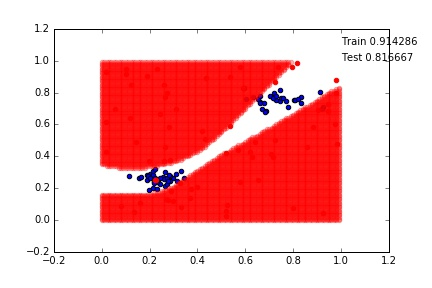
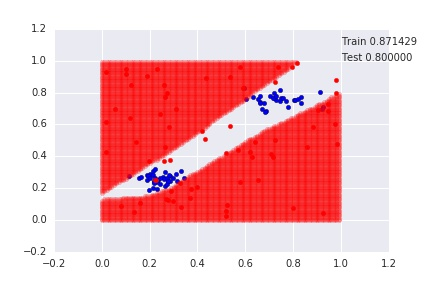
callbacks for Fit

diff --git a/neuro.py b/neuro.py
@@ -24,7 +24,8 @@ from scipy import diag,arange
 from sklearn.datasets import make_classification
 #%%
 
-from keras.models import Sequential
+from keras.models import Sequential, load_model
+from keras.callbacks import ModelCheckpoint, EarlyStopping
 from keras.layers.core import Dense
 from keras.utils import np_utils
 from pybrain.utilities           import percentError
@@ -117,12 +118,12 @@ Y_test = np_utils.to_categorical(y_test,nb_classes)
 HIDDEN_NEURONS_NUM = 15 # Количество нейронов, содержащееся в скрытом слое сети
 HIDDEN_NEURONS_NUM_2 = 15
 
-MAX_EPOCHS = 2500
+MAX_EPOCHS = 150
 
 BATCH_SIZE = 1
 
-activation_layer1= 'sigmoid' #'relu'
-activation_layer2='sigmoid'
+activation_layer1= 'relu' #'relu'
+activation_layer2='relu'
 optimizer_zn =  "adam" # "rmsprop"
 loss_func = 'categorical_crossentropy'
 
@@ -145,10 +146,12 @@ model.add(Dense(units = nb_classes,activation = "softmax"))
 model.compile(optimizer = optimizer_zn,loss= loss_func, metrics=['accuracy'])
 
 #%%
+checkpointer = ModelCheckpoint(filepath = "models/exp.hdf5",verbose = 0,save_best_only = 1, save_weights_only = 1)
+earlystopper = EarlyStopping(monitor ="val_acc", verbose = 0 , mode = "auto")
 a = time.time()    
 # = True
 #while  flag
-fit_info = model.fit(X_train,Y_train,batch_size = BATCH_SIZE,epochs = MAX_EPOCHS,verbose = 2, validation_data =(X_test,Y_test))
+fit_info = model.fit(X_train,Y_train,batch_size = BATCH_SIZE,epochs = MAX_EPOCHS,verbose = 2, validation_data =(X_test,Y_test), callbacks = [checkpointer])
 resTime = time.time() - a #in seconds
 
 #%%
